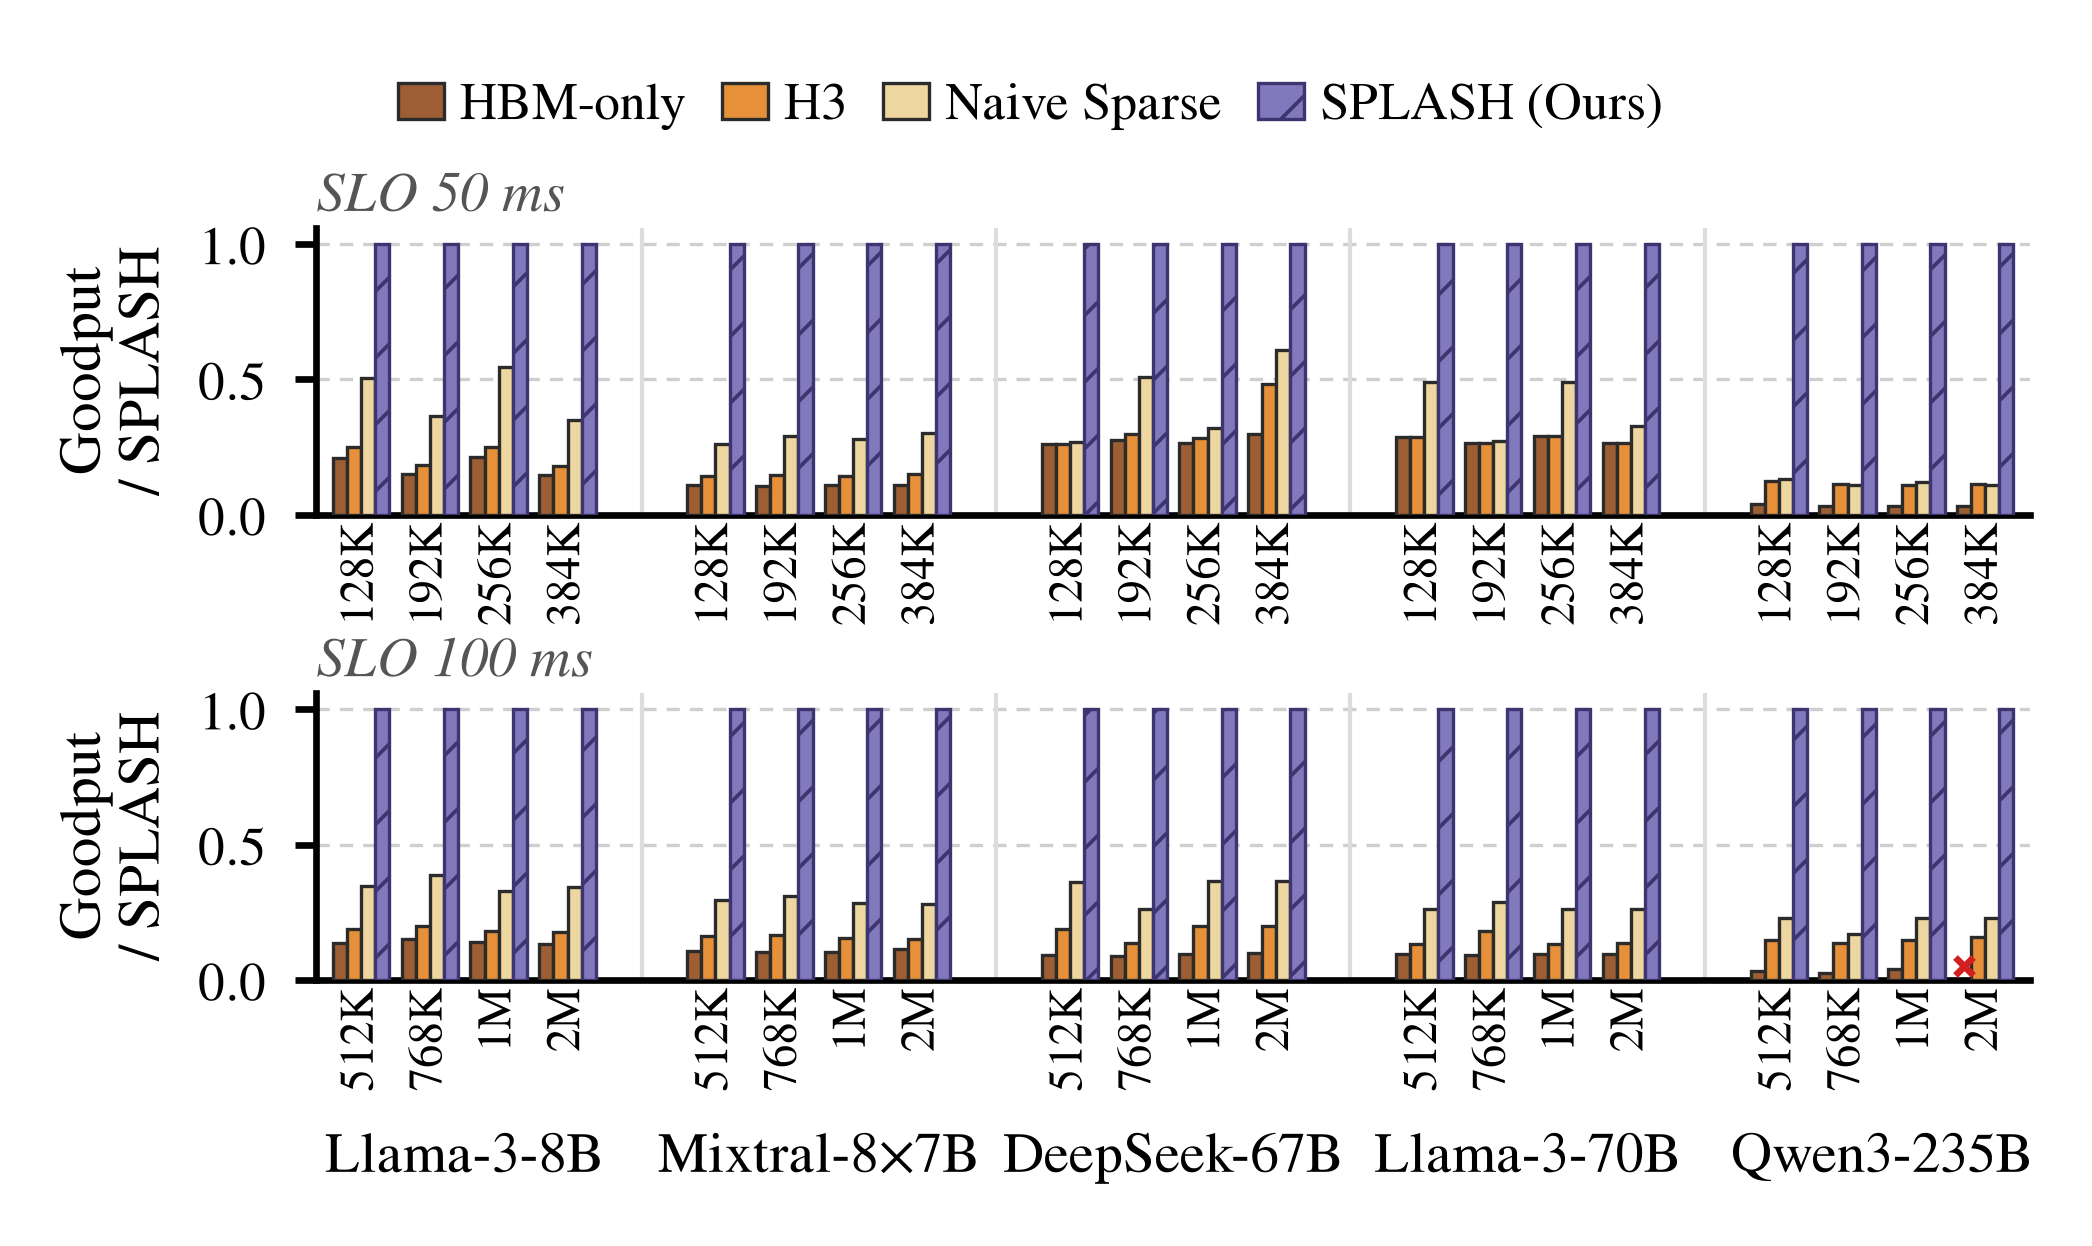
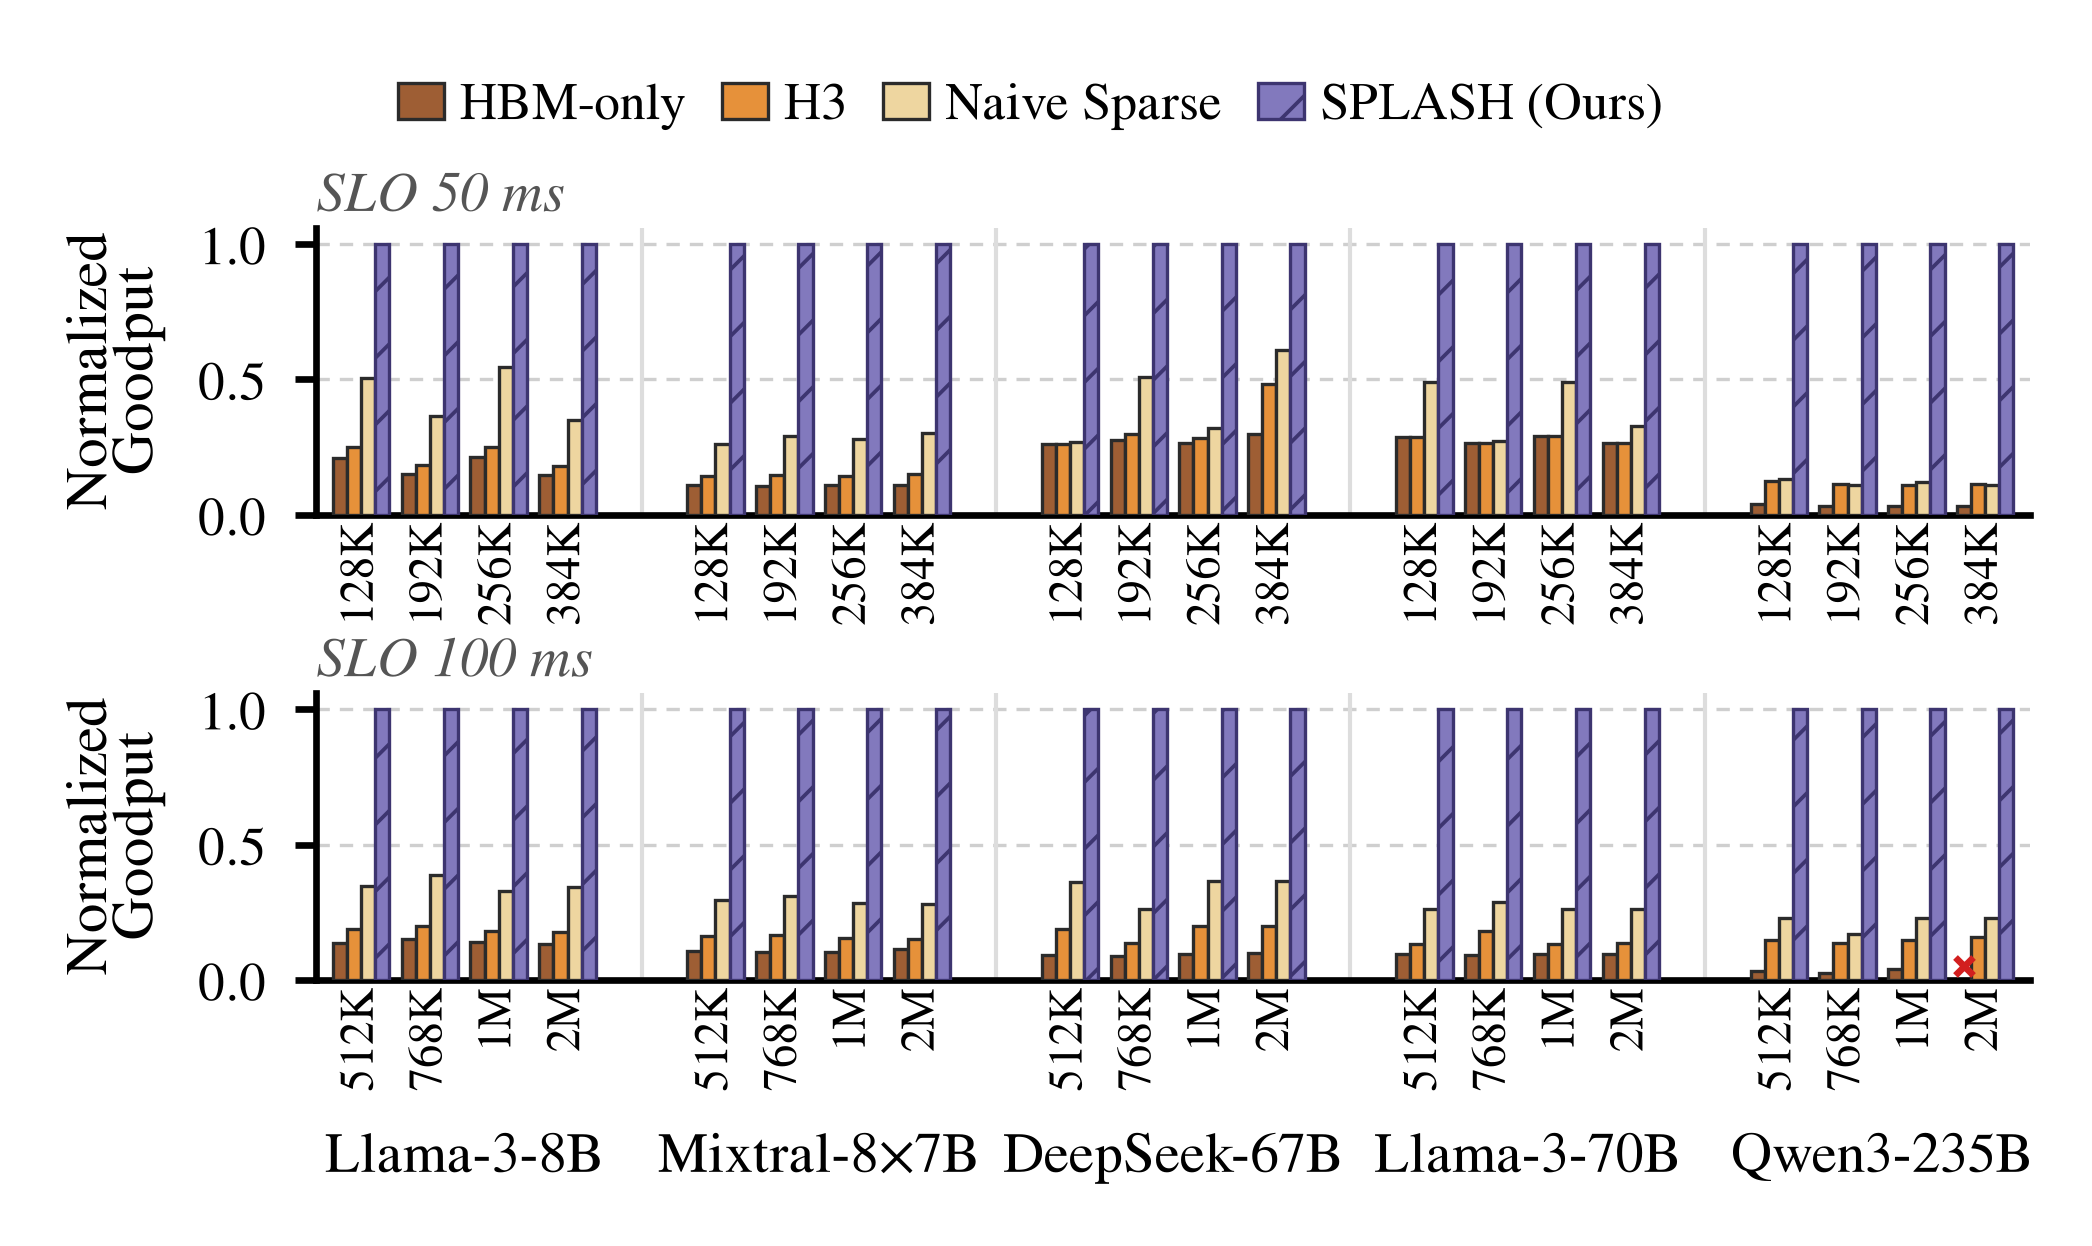
Throughput ylabel -> Normalized Goodput

Changed region(s): [[0.0311, 0.183, 0.0932, 0.427], [0.0311, 0.549, 0.0932, 0.7929]]

diff --git a/make_result_throughput.py b/make_result_throughput.py
@@ -137,7 +137,7 @@ def render_combined(fname):
                     ax.bar(xx, v, bw, color=COL[sd], edgecolor=EDGE[sd], linewidth=0.4,
                            hatch=HATCH.get(sd), zorder=3)
         ax.set_ylim(0, 1.06); ax.set_yticks([0, 0.5, 1.0]); ax.tick_params(labelsize=6.5)
-        ax.set_ylabel("Goodput\n/ SPLASH", fontsize=7.0, linespacing=0.9)
+        ax.set_ylabel("Normalized\nGoodput", fontsize=7.0, linespacing=0.9)
         ax.grid(True, axis="y", ls=(0, (4, 3)), lw=0.4, color="#cfcfcf", zorder=0)
         ax.set_axisbelow(True); ax.set_xlim(cen[0] - 0.65, cen[-1] + 0.65)
         for sp in ("top", "right"): ax.spines[sp].set_visible(False)
